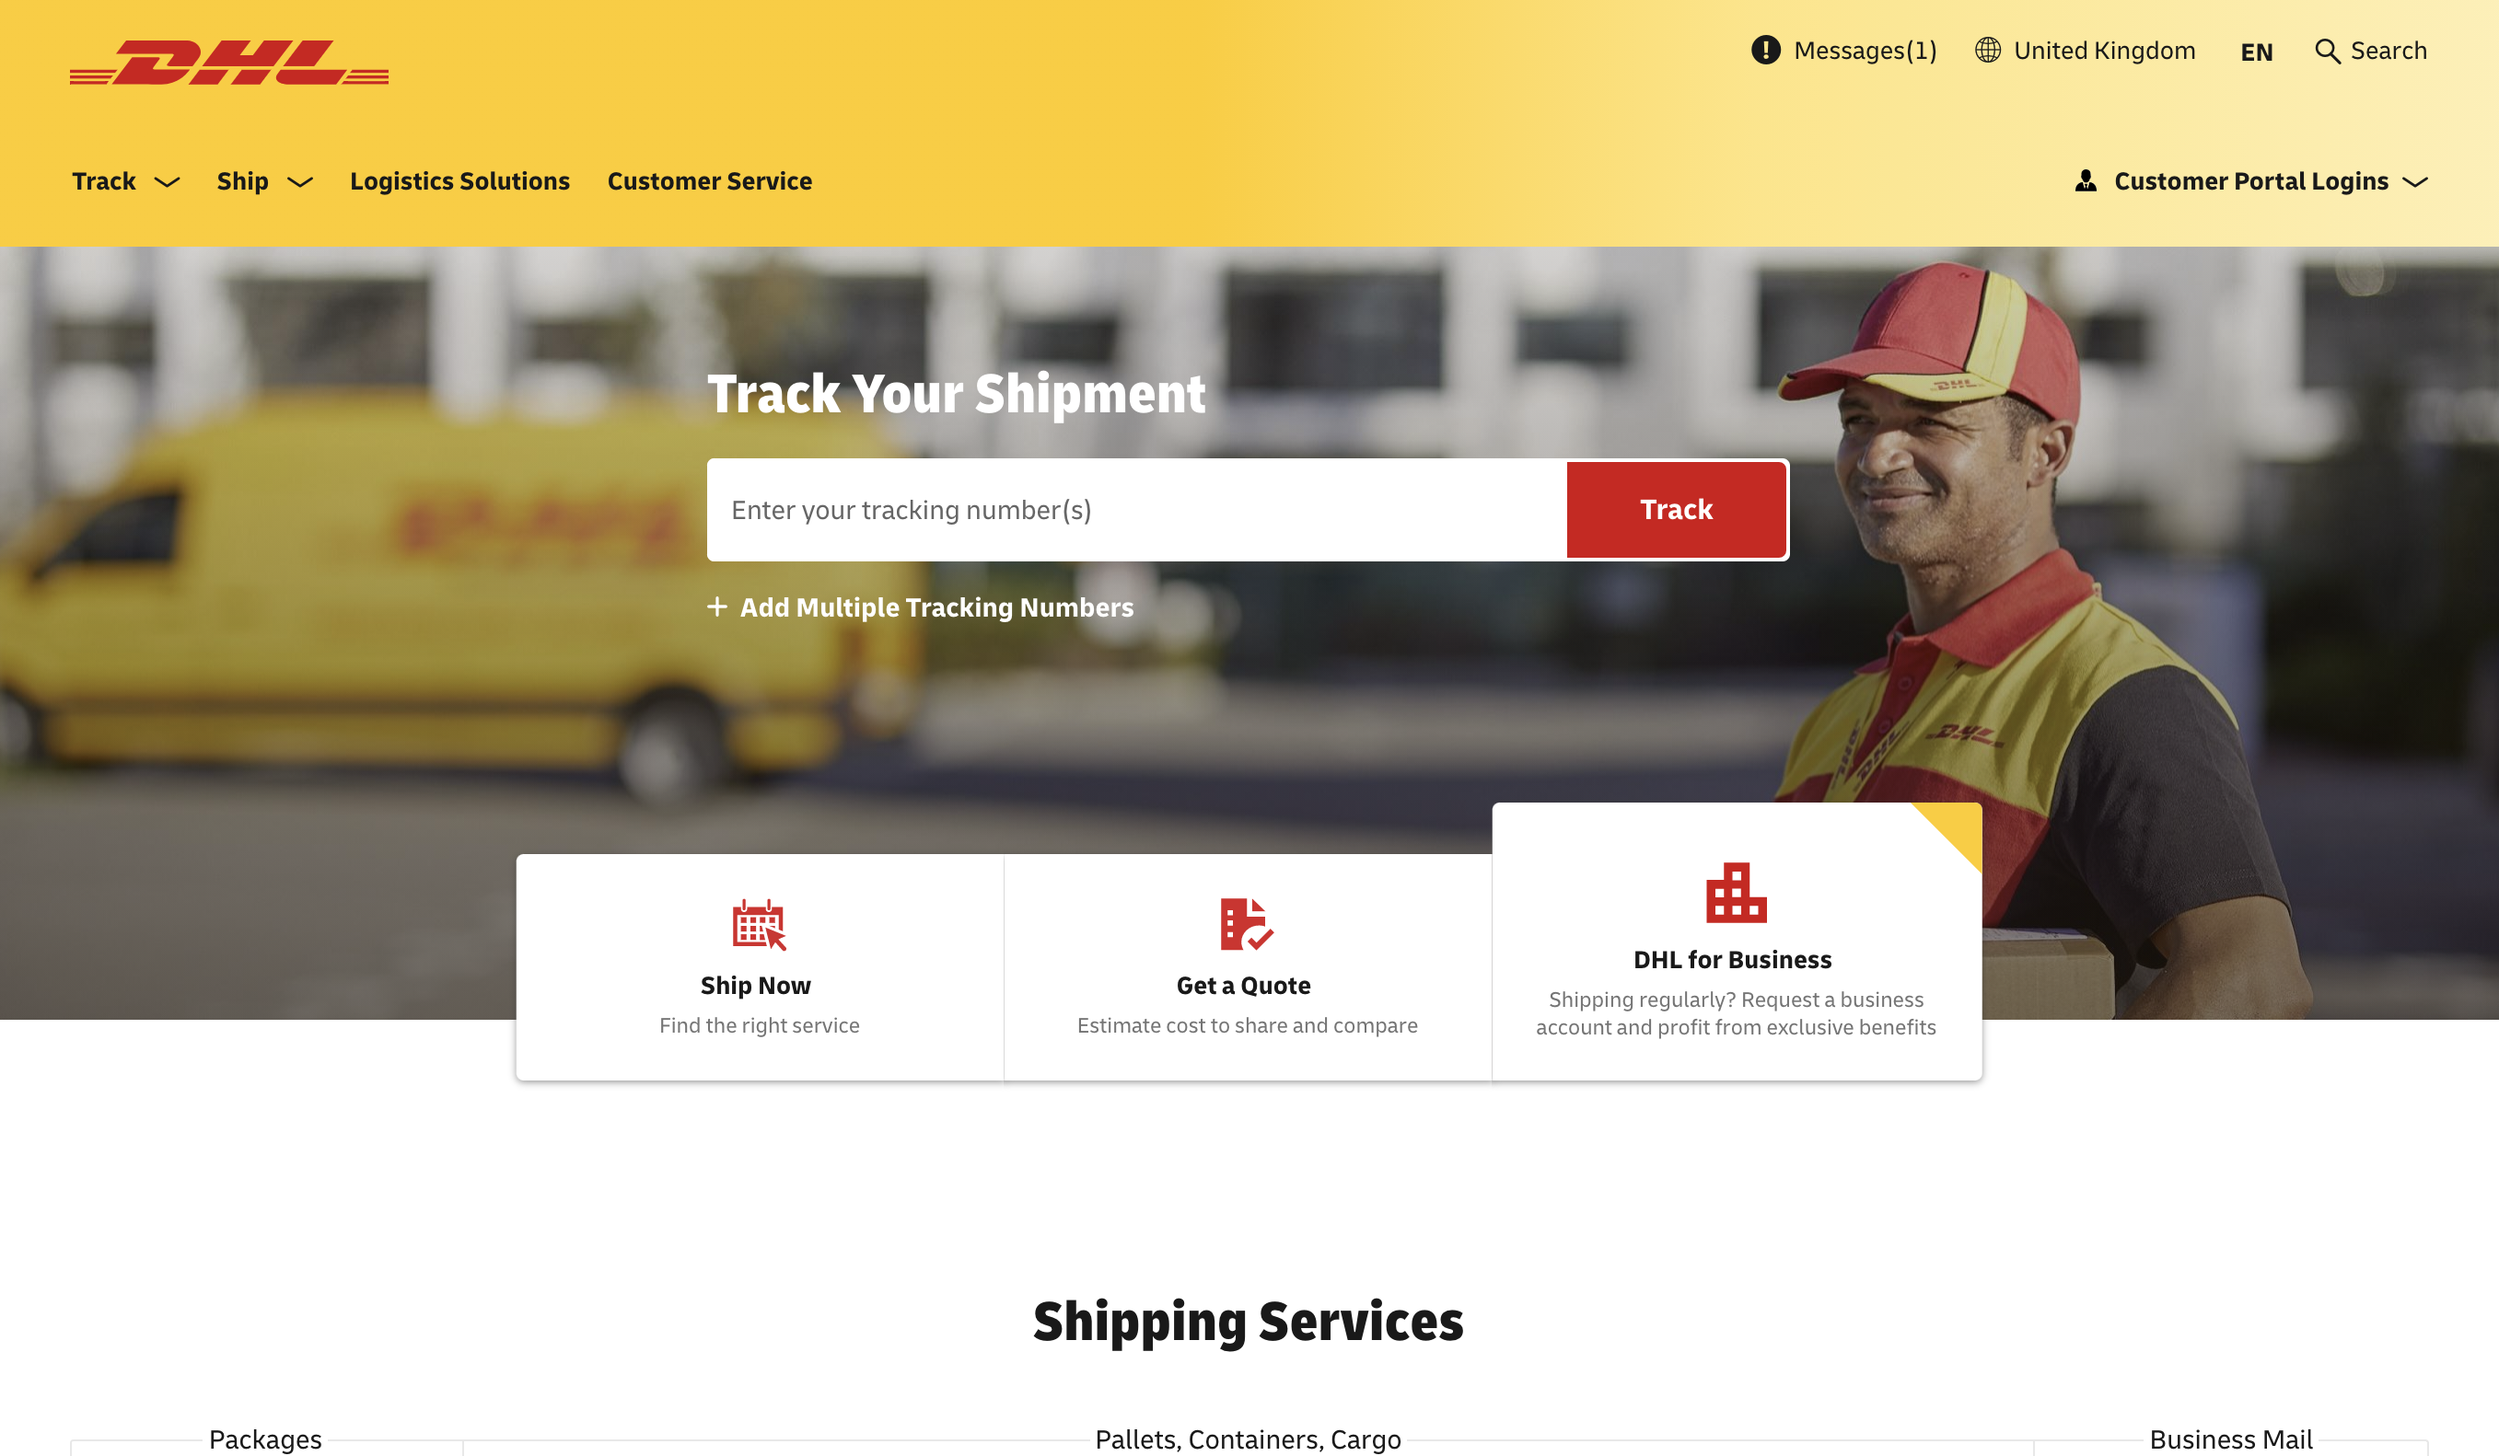
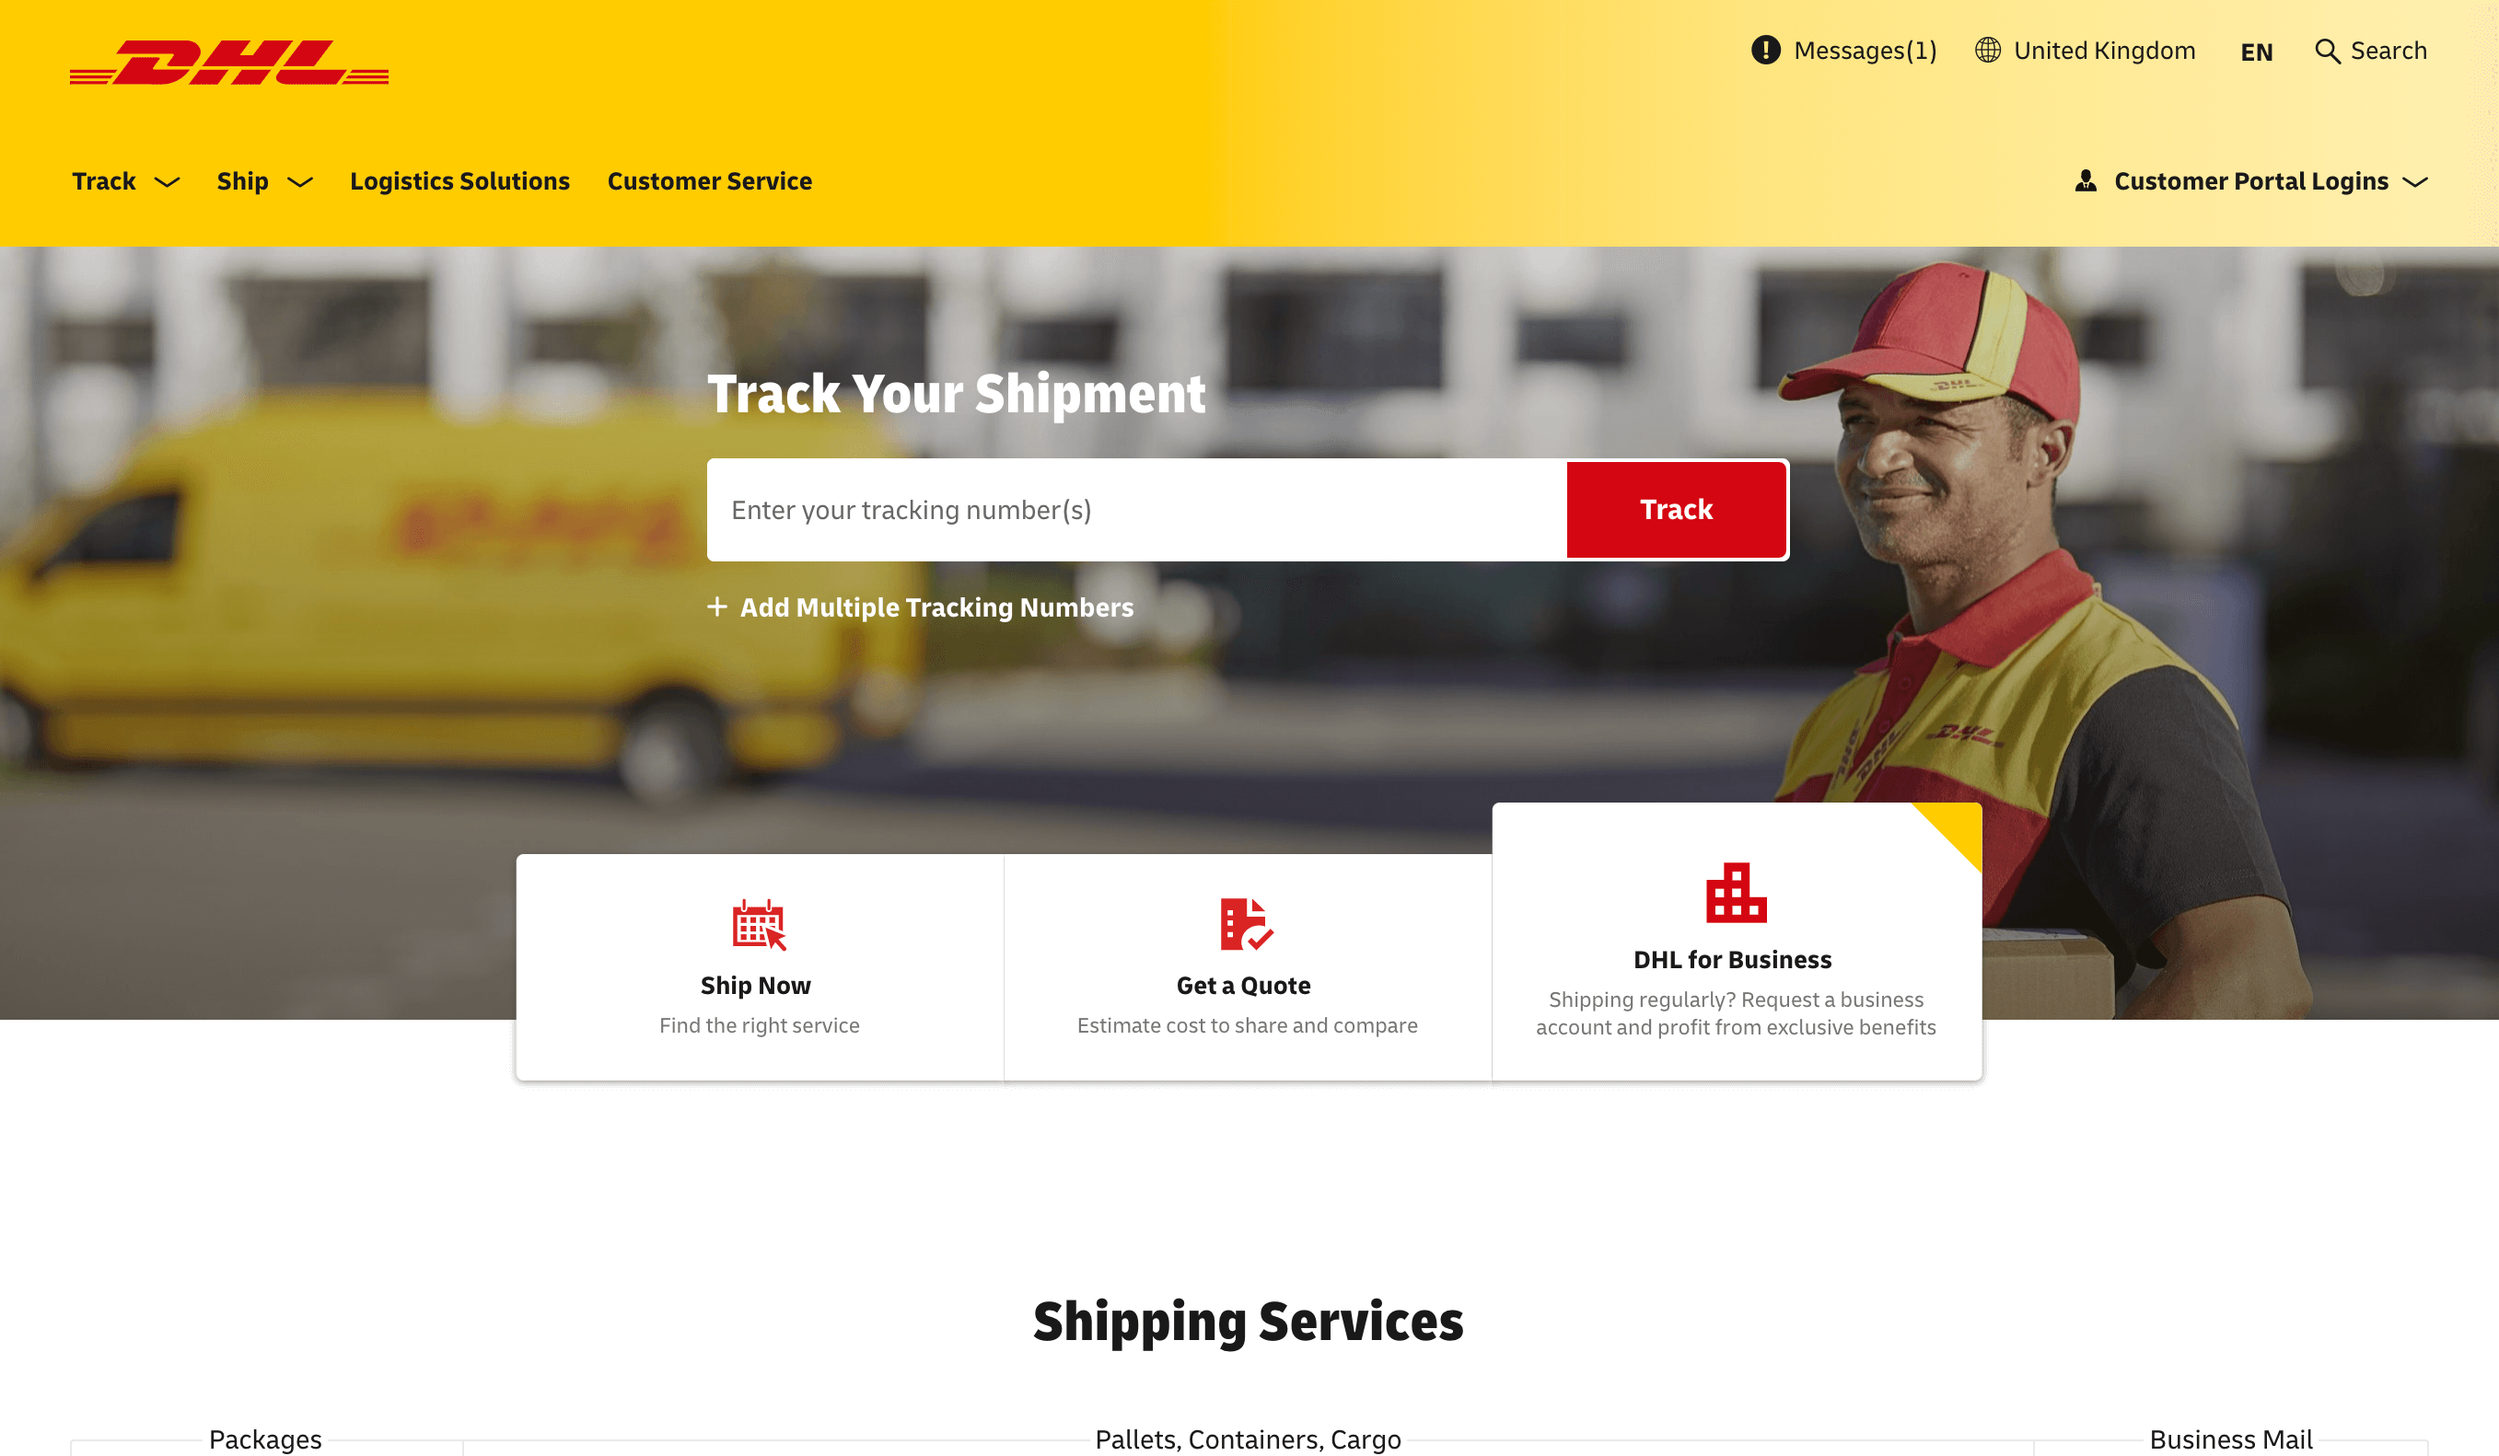
new images

diff --git a/assets/css/main.css b/assets/css/main.css
@@ -3234,7 +3234,7 @@ input, select, textarea {
 			width: 100%;
 			height: 100%;
 			background-color: #212931;
-			background-image: url("../../images/overlay.png"), linear-gradient(0deg, rgba(0, 0, 0, 0.1), rgba(0, 0, 0, 0.1)), url("../../images/bg.jpg");
+			background-image: url("../../images/overlay.png"), linear-gradient(0deg, rgba(0, 0, 0, 0.1), rgba(0, 0, 0, 0.1)), url("../../images/bg-2.jpg");
 			background-size: auto,								auto,														100% auto;
 			background-position: center,								center,														top center;
 			background-repeat: repeat,								no-repeat,													no-repeat;
